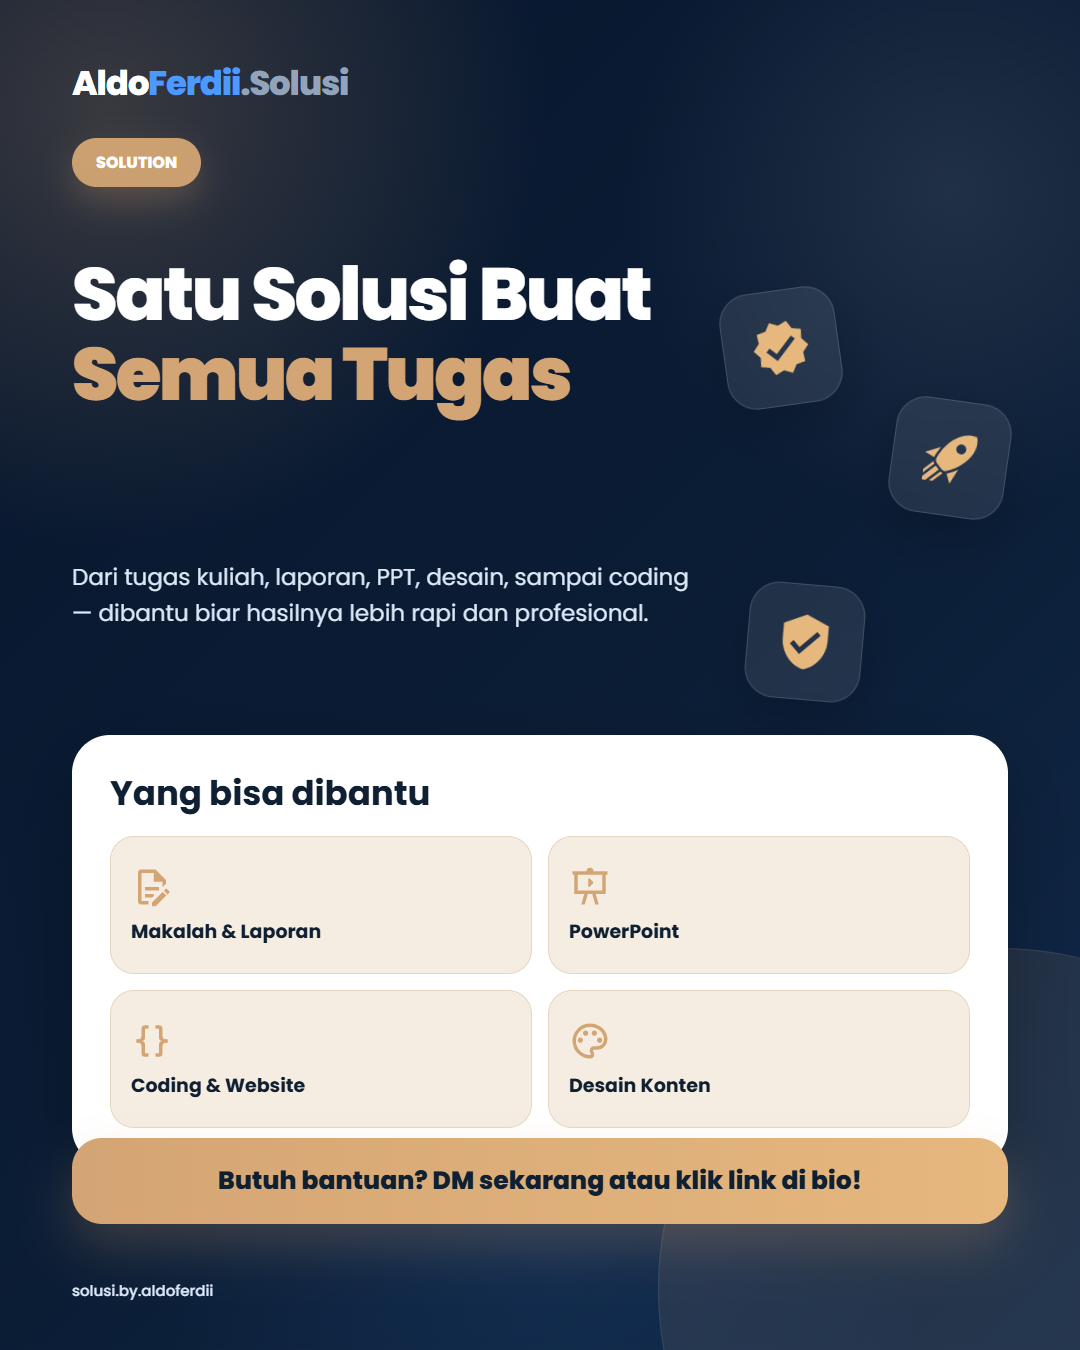
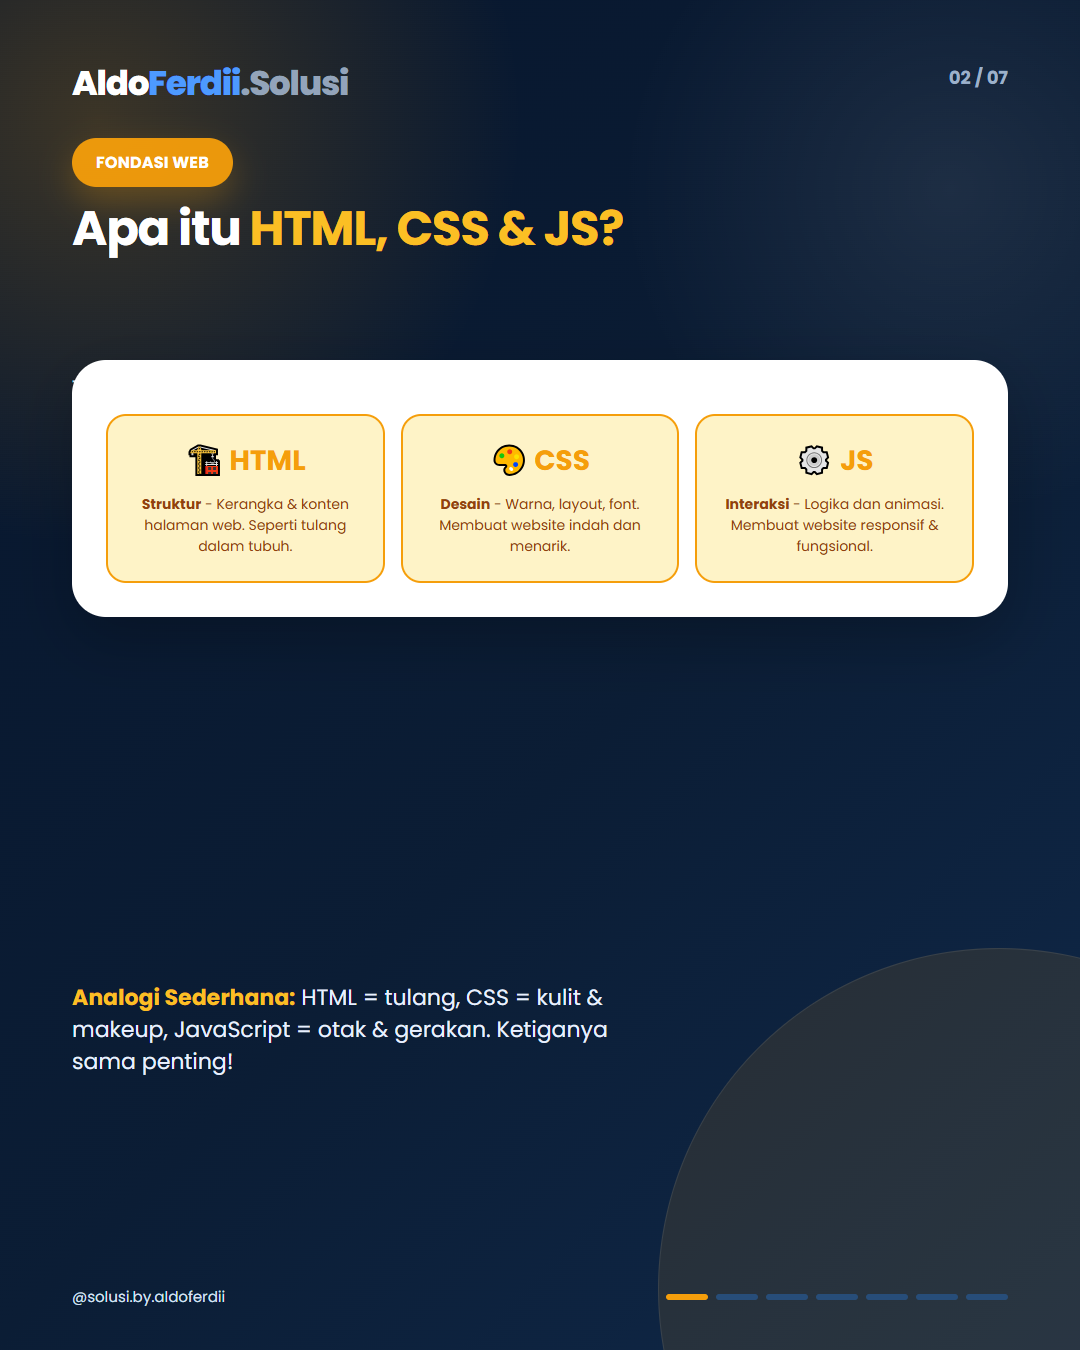
aa

diff --git a/aldoferdii_carousel_html_css_js.html b/aldoferdii_carousel_html_css_js.html
@@ -102,6 +102,8 @@
           </div>
         </div>
       </div>
+      <div class="cta">Swipe untuk langkahnya →</div>
+      <div class="footer"><p>solusi.by.aldoferdii</p><p>[email redacted]</p><p>aldoferdii-solusi.web.app</p><p class="small">© AldoFerdii Solusi 2026</p></div>
     </section>
 
     <section class="slide" id="slide-2">

diff --git a/export.js b/export.js
@@ -4,7 +4,7 @@ const fs = require('fs');
 
 (async () => {
   // Ambil nama file dari command line argument
-  const htmlFile = process.argv[2] || 'aldoferdii_promosi.html';
+  const htmlFile = process.argv[2] || 'aldoferdii_carousel_html_css_js.html';
   
   // Cek apakah file ada
   if (!fs.existsSync(htmlFile)) {